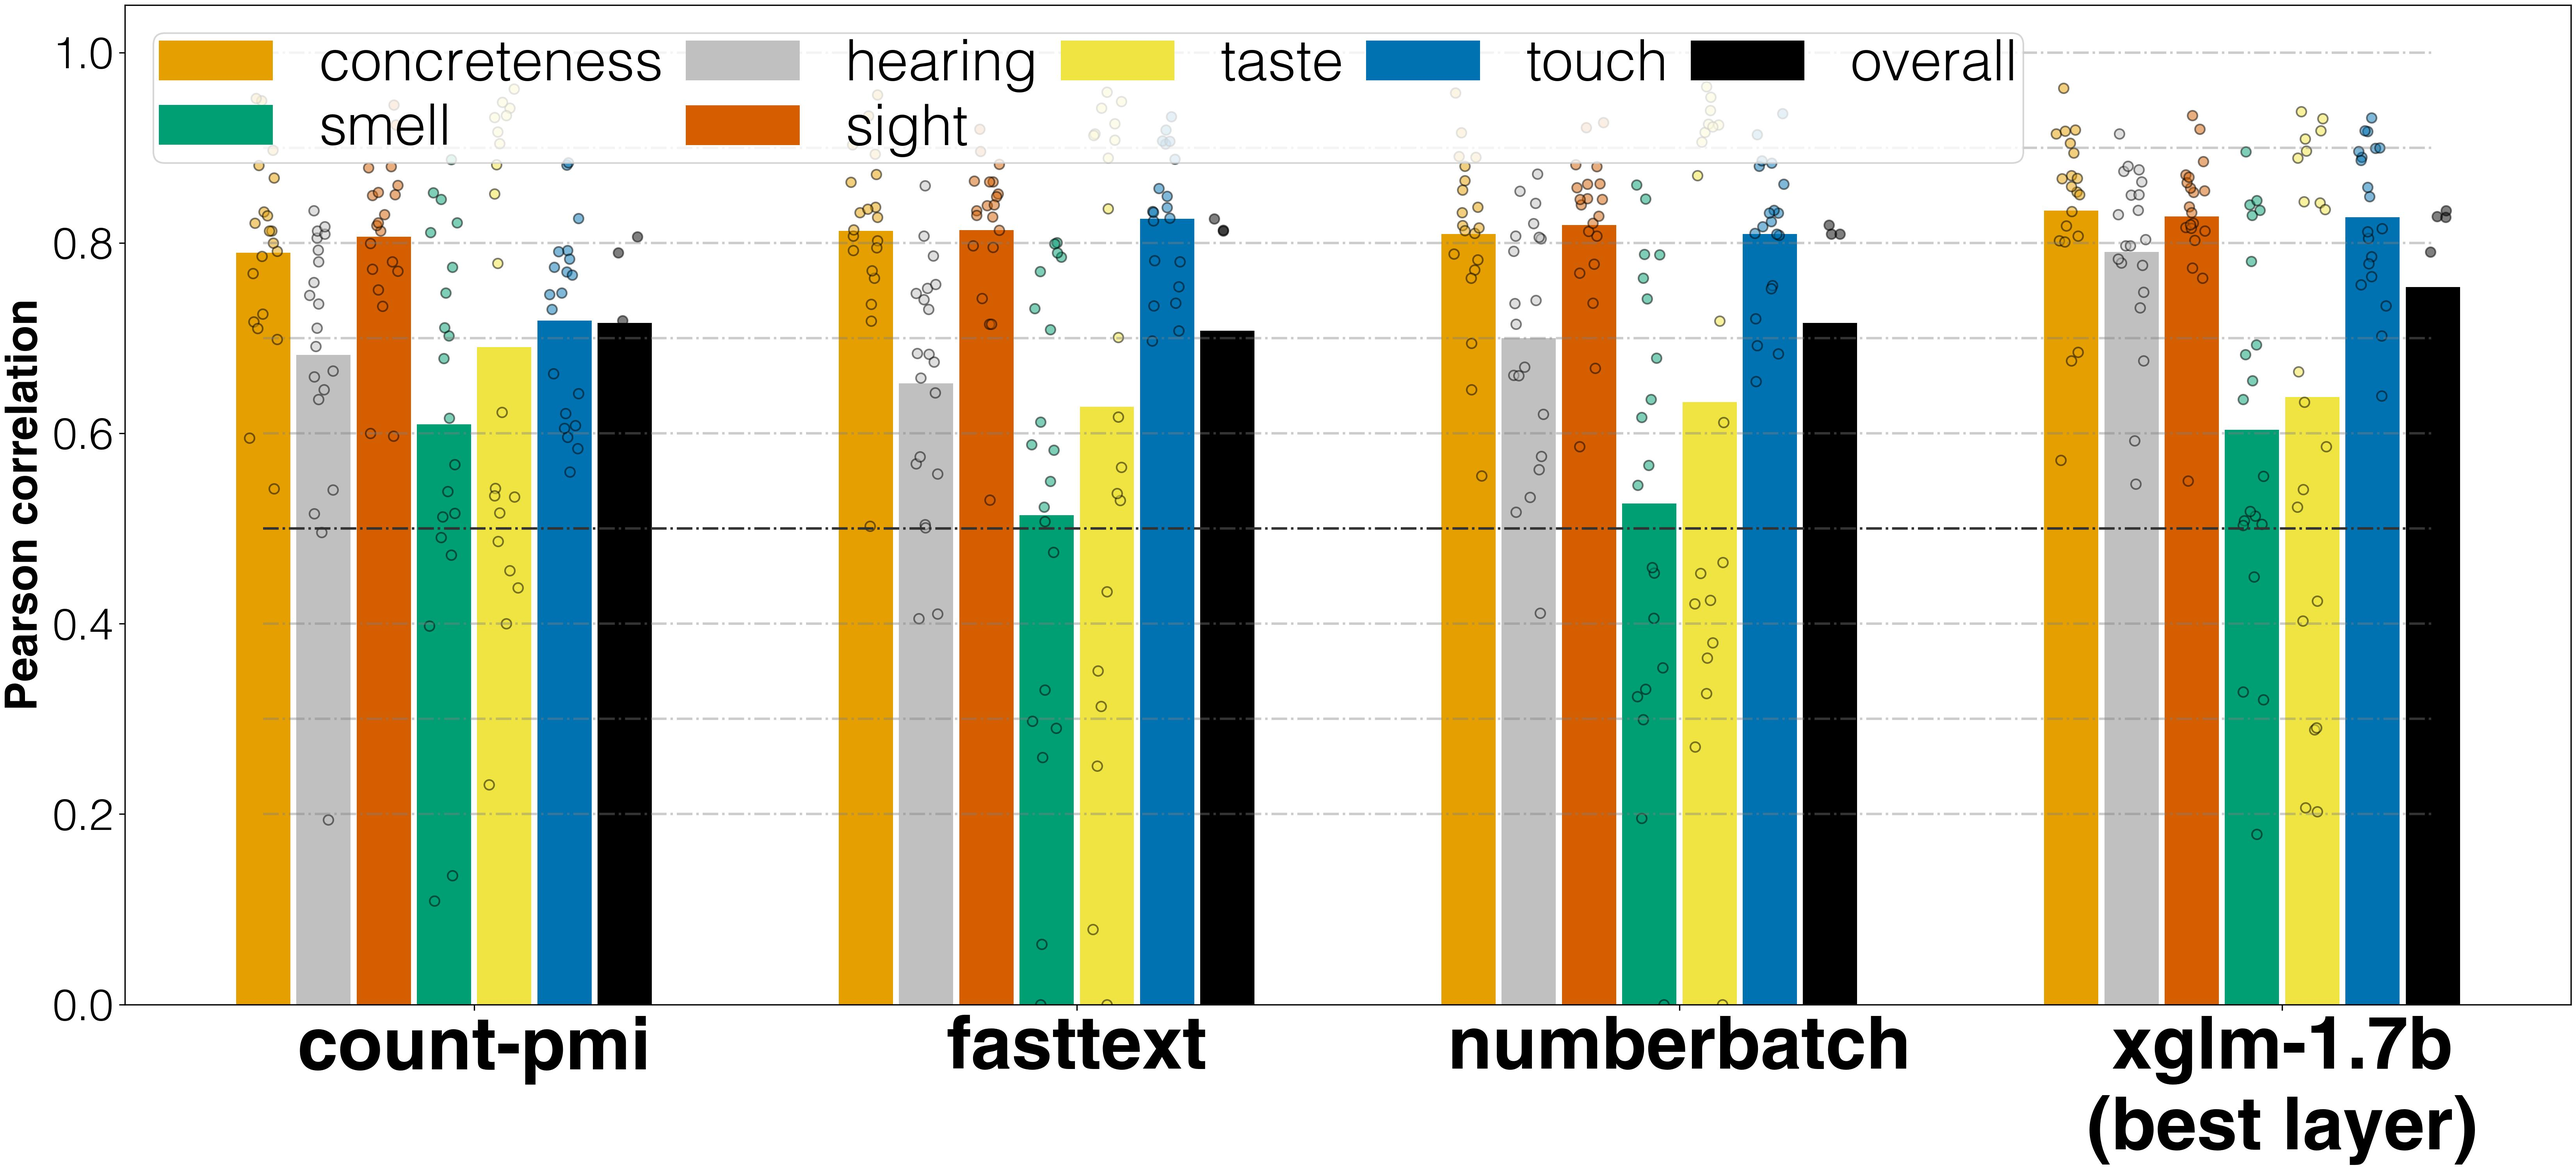
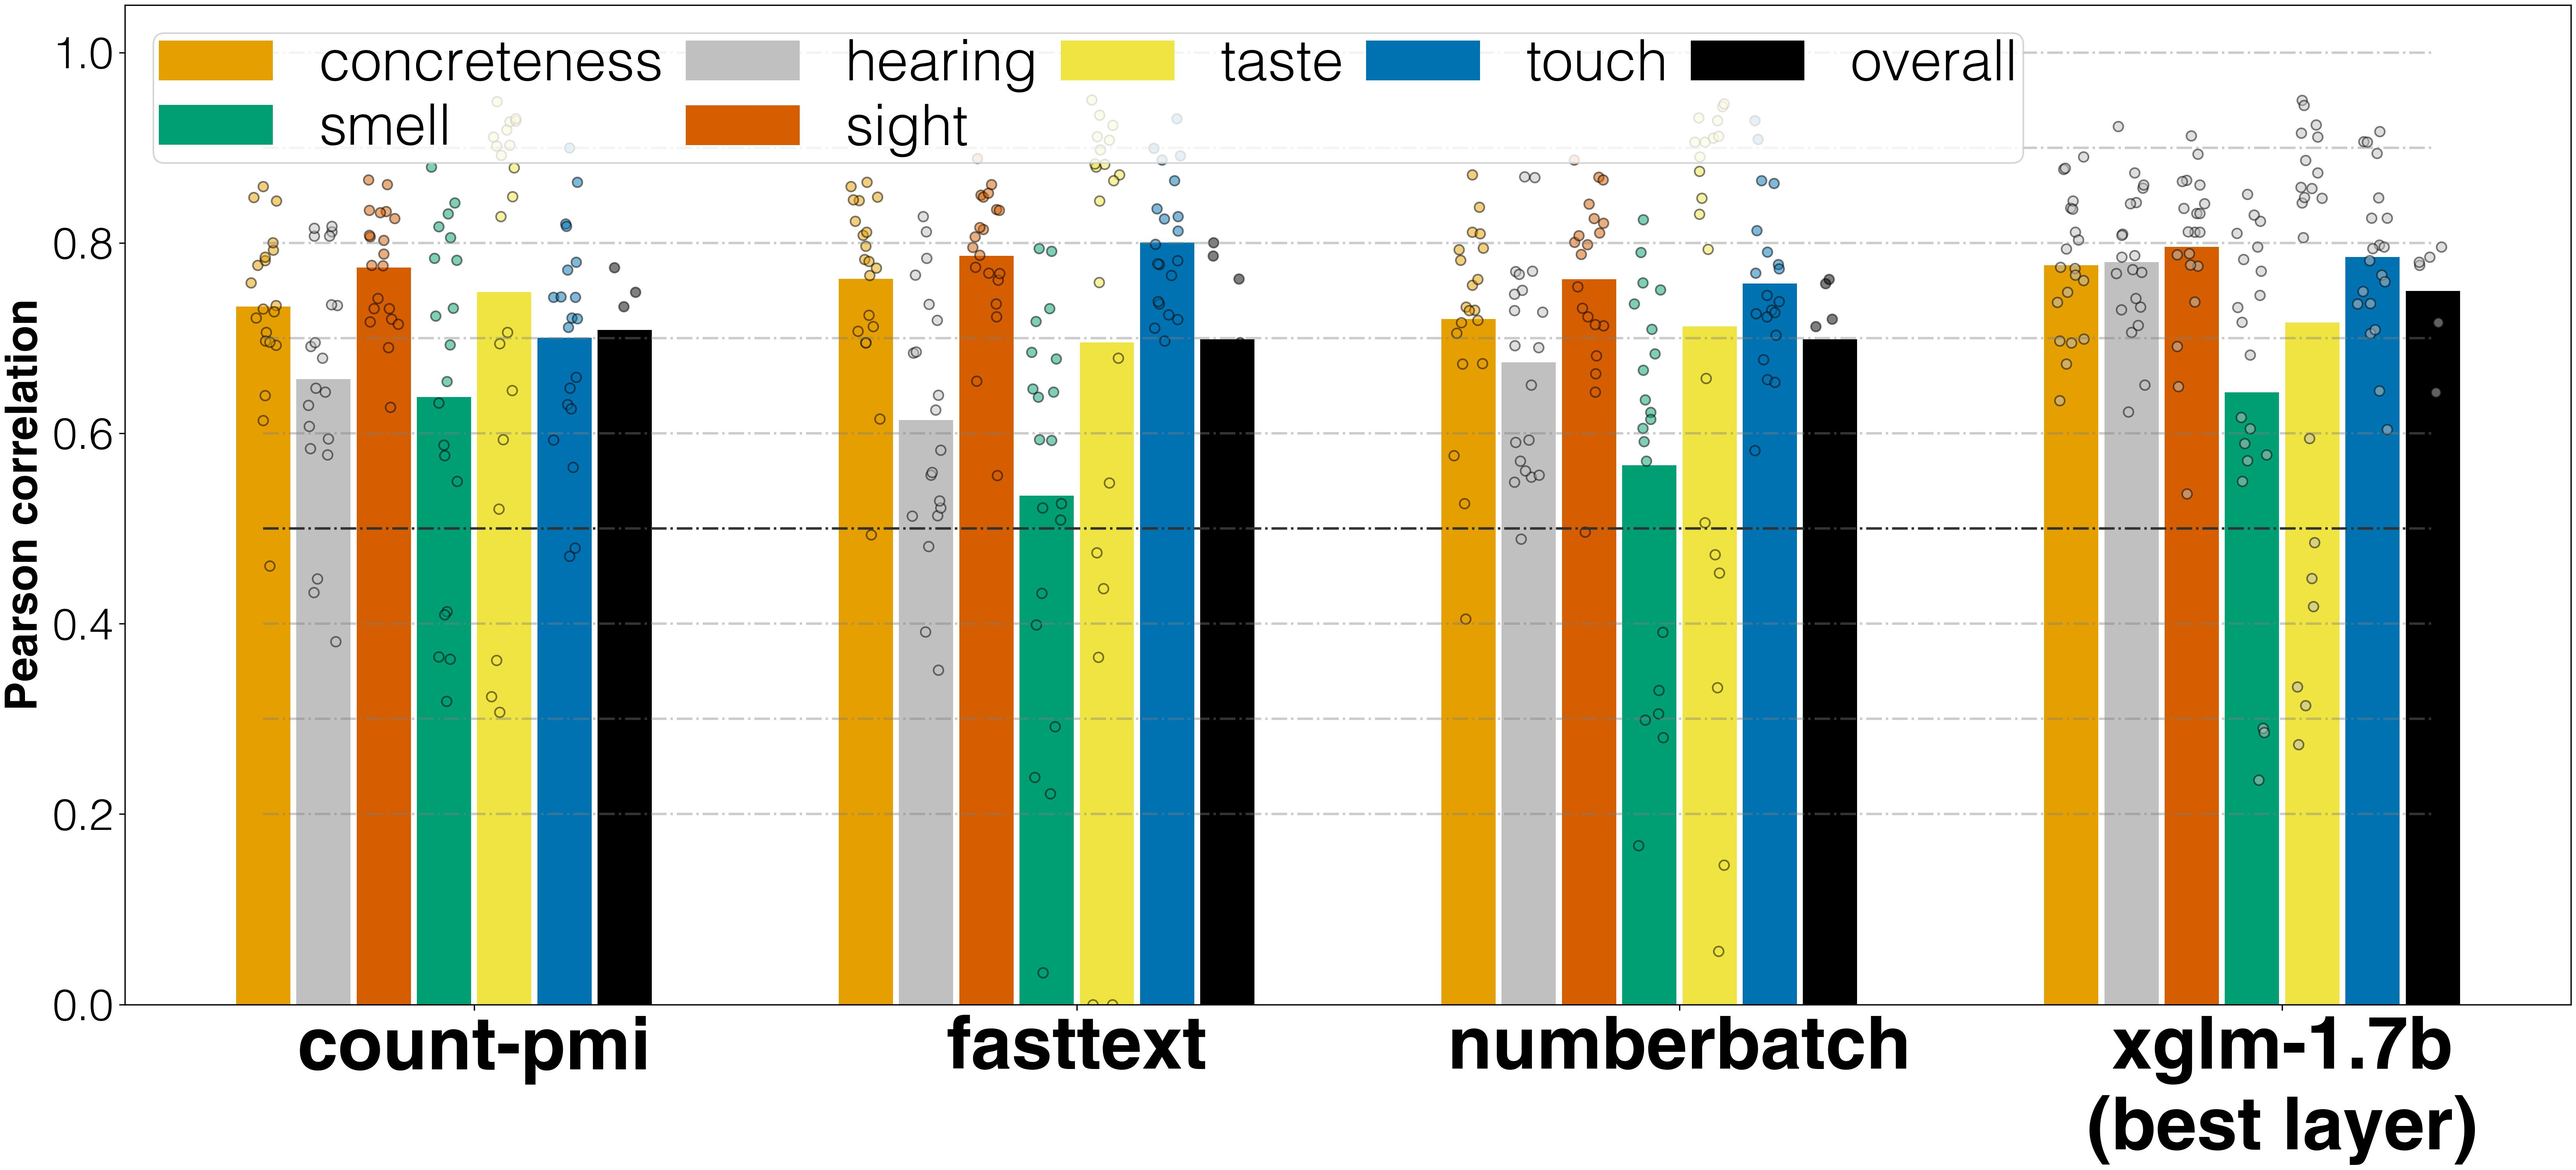
error bars

diff --git a/07_rsa_and_evaluation.py b/07_rsa_and_evaluation.py
@@ -360,6 +360,9 @@ with open('{}.txt'.format(out_file), 'w') as o:
             o.write('{}\t{}\t{}\n'.format(model, var, round(numpy.nanmean(res), 3)))
         ### scatters
         for x, res in zip(xs, results):
+            if x == xs[-1]:
+                color='silver'
+
             ax.scatter(
                        [x+(random.choice(range(-25, 25))/1000) for i in range(len(res))], 
                        [max(0, r) for r in res], 
@@ -488,7 +491,14 @@ with open('{}.txt'.format(out_file), 'w') as o:
         xs = [i+corrections[var_i] for i in range(len(models_sorted))]
         bars = [numpy.nanmean(res) for res in results]
         ### bars
-        ax.bar(xs, bars, width=0.09, color=color, zorder=2)
+        ax.bar(
+               xs, 
+               bars, 
+               width=0.09, 
+               color=color, 
+               #zorder=2,
+               #ecolor='black',
+               )
         for m_i, m in enumerate(models_sorted):
             p = p_values[(m, var)]
             o.write('{}\t{}\t{}\t'.format(m, var, round(numpy.nanmean(results[m_i]), 3)))
@@ -525,13 +535,20 @@ with open('{}.txt'.format(out_file), 'w') as o:
             #    ax.scatter([m_i+corrections[var_i]], [0.1], marker='*', color=p_color, zorder=2.5)
         ### scatters
         for x, res in zip(xs, results):
-            ax.scatter(
-                       [x for i in range(len(res))], 
-                       [max(0, r) for r in res], 
-                       color=color, 
-                       alpha=0.5, 
-                       edgecolors='black',
-                       zorder=2.5,
+            #ax.scatter(
+            ax.errorbar(
+                       x, 
+                       numpy.average(res),
+        #               #[x for i in range(len(res))], 
+        #               #[max(0, r) for r in res], 
+                       ecolor='black', 
+        #               #alpha=0.5, 
+                       #edgecolors='black',
+        #               zorder=2.5,
+        #               #label=label,
+                       zorder=3.,
+                       capsize=5.,
+                       yerr=scipy.stats.sem(res),
                        )
 ax.hlines([0.5], xmin=0., color='black', xmax=len(models_sorted)-.4, linestyles='dashdot', zorder=2.5)
 ax.hlines([0.2, 0.3, 0.4, 0.5, 0.6, 0.7, 0.8, 0.9, 1.], xmin=0., color='grey', alpha=0.4, xmax=len(models_sorted)-.4, linestyles='dashdot', zorder=2.5)

diff --git a/04_validate_list_phrases.py b/04_validate_list_phrases.py
@@ -159,7 +159,7 @@ datasets = [
 for dataset_name, dataset in datasets:
     assert type(dataset) == dict
 
-    print('\n\t{}\n'.format(dataset_name))
+    print('\n\t{} - single words\n'.format(dataset_name))
     abstracts, concretes = [dataset[v] for n, v in stimuli['abstract'] if v in dataset.keys()], [dataset[v] for n, v in stimuli['concrete'] if v in dataset.keys()]
 
     stat_diff = scipy.stats.ttest_ind(concretes, abstracts)
@@ -248,6 +248,19 @@ out_file = os.path.join(plot_folder, 'phrase_senses_distribution.jpg')
 fig, ax = pyplot.subplots(figsize=(22, 10), constrained_layout=True)
 
 corr_stimuli = {k : [' '.join((val[1], val[0])) for val in v] for k, v in stimuli.items()}
+
+for dataset_name, dataset in human_data.items():
+    assert type(dataset) == dict
+
+    print('\n\t{} - whole phrase\n'.format(dataset_name))
+    abstracts, concretes = [dataset[v] for v in corr_stimuli['abstract'] if v in dataset.keys()], [dataset[v] for v in corr_stimuli['concrete'] if v in dataset.keys()]
+
+    stat_diff = scipy.stats.ttest_ind(concretes, abstracts)
+    print('concrete: {}'.format(numpy.average(concretes)))
+    print('abstract: {}'.format(numpy.average(abstracts)))
+    print(stat_diff)
+
+print(final_plot.keys())
 
 conc = [(sense, [var for phr, var in sense_averages.items() if phr in corr_stimuli['concrete']]) for sense, sense_averages in human_data.items()]
 abst = [(sense, [var for phr, var in sense_averages.items() if phr in corr_stimuli['abstract']]) for sense, sense_averages in human_data.items()]
